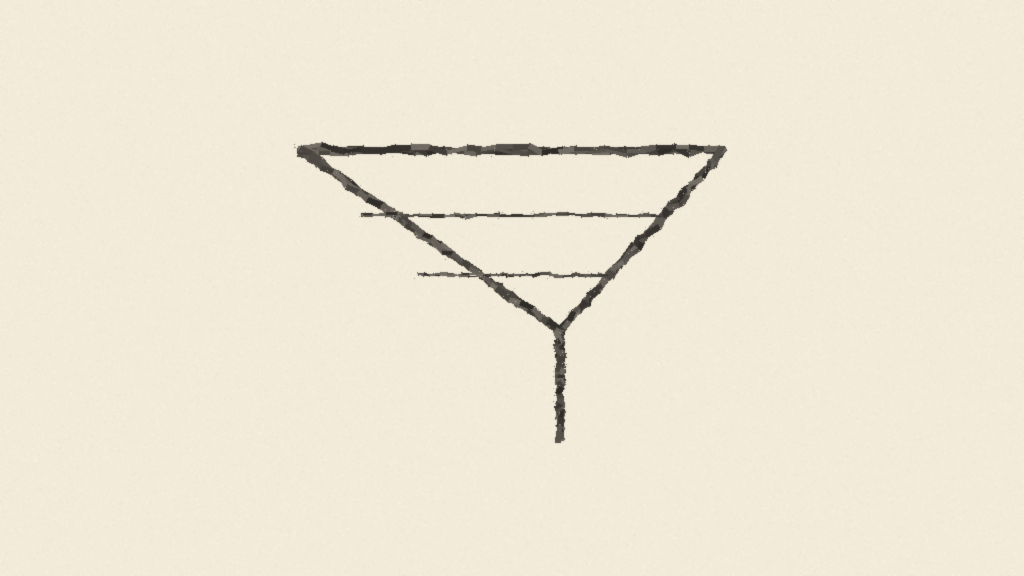
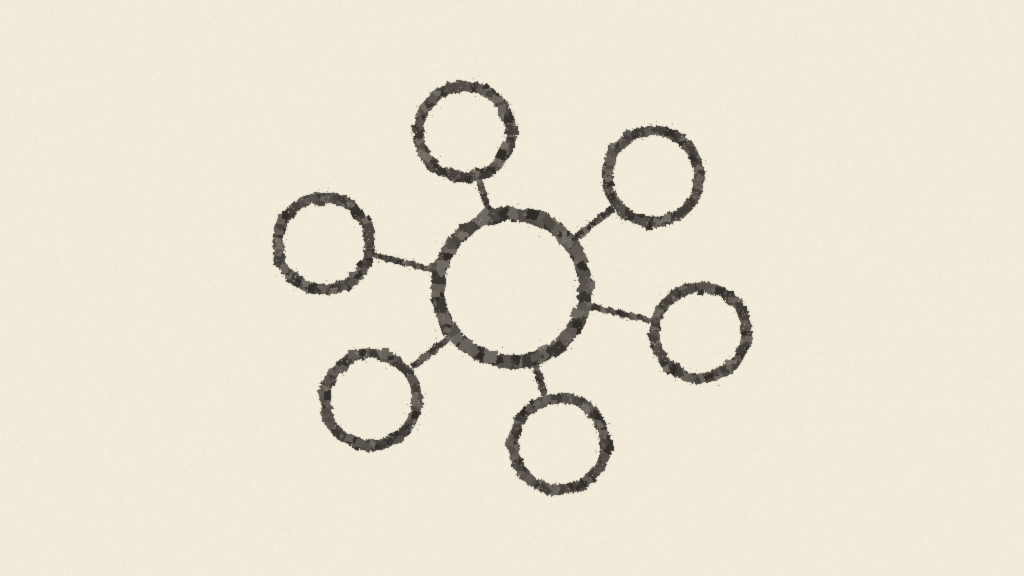
teaser: 모티프 선택을 excerpt·본문 기반으로 개선, SEO 글 썸네일 nodes로 교체
- 키워드 사전 확장 (seo·검색엔진·색인·rss 등 → nodes)
- 영문 키워드 단어 경계 매칭으로 오매칭 방지
- slug·tags·title 가중치 2, excerpt·본문 가중치 1

Changed region(s): [[0.25, 0.125, 0.75, 0.875]]

diff --git a/markdown_generator/make_sketch_teaser.py b/markdown_generator/make_sketch_teaser.py
@@ -28,7 +28,7 @@ def _bootstrap():
 _bootstrap()
 
 import pathlib
-import hashlib, math, random
+import hashlib, math, random, re
 from PIL import Image, ImageDraw, ImageFilter
 
 W, H = 1024, 576
@@ -124,30 +124,38 @@ def m_nodes(dr, rnd):
 
 MOTIFS = {"bars": m_bars, "funnel": m_funnel, "venn": m_venn, "one": m_one, "matrix": m_matrix, "nodes": m_nodes}
 KEYWORDS = {
-    "bars":   ["metric", "지표", "analytics", "measure", "kpi", "lean"],
-    "funnel": ["funnel", "퍼널", "conversion", "전환", "retention"],
-    "venn":   ["integration", "연동", "통합", "crm", "identity"],
-    "one":    ["omtm", "one", "focus", "단 하나", "핵심"],
-    "matrix": ["matrix", "매트릭스", "framework", "단계", "stage"],
-    "nodes":  ["ai", "agent", "에이전트", "llm", "automation", "자동화", "workflow", "워크플로", "network"],
+    "bars":   ["metric", "지표", "analytics", "measure", "kpi", "lean", "ga4", "amplitude", "측정", "대시보드"],
+    "funnel": ["funnel", "퍼널", "conversion", "전환", "retention", "리텐션", "유입", "온보딩"],
+    "venn":   ["integration", "연동", "통합", "crm", "identity", "매핑"],
+    "one":    ["omtm", "focus", "단 하나", "하나만", "원포인트"],
+    "matrix": ["matrix", "매트릭스", "framework", "프레임워크", "단계", "stage", "체크리스트"],
+    "nodes":  ["ai", "agent", "에이전트", "llm", "automation", "자동화", "workflow", "워크플로", "network",
+               "seo", "geo", "검색엔진", "색인", "크롤러", "크롤링", "indexnow", "sitemap", "rss", "피드"],
 }
 
-def pick(slug, tags, title):
-    hay = " ".join([slug, " ".join(tags or []), title or ""]).lower()
+def _hit(k, hay):
+    # 영문 키워드는 단어 경계 매칭 ("ai"가 "airbridge"에 걸리는 오매칭 방지)
+    if re.fullmatch(r"[a-z0-9]+", k):
+        return re.search(r"(?<![a-z0-9])" + re.escape(k) + r"(?![a-z0-9])", hay) is not None
+    return k in hay
+
+def pick(slug, tags, title, text=""):
+    strong = " ".join([slug, " ".join(tags or []), title or ""]).lower()
+    weak = (text or "").lower()
     best, score = None, 0
     for m, kws in KEYWORDS.items():
-        s = sum(1 for k in kws if k in hay)
+        s = sum(2 for k in kws if _hit(k, strong)) + sum(1 for k in kws if _hit(k, weak))
         if s > score: best, score = m, s
     if best: return best
     h = int(hashlib.sha256(slug.encode()).hexdigest(), 16)
     return sorted(MOTIFS)[h % len(MOTIFS)]
 
-def generate(slug, out, tags=None, title="", motif=None):
+def generate(slug, out, tags=None, title="", motif=None, text=""):
     rnd = random.Random(int(hashlib.sha256(slug.encode()).hexdigest()[:12], 16))
     img = paper(rnd)
     layer = Image.new("RGBA", (W, H), (0,0,0,0))
     dr = ImageDraw.Draw(layer)
-    name = motif or pick(slug, tags, title)
+    name = motif or pick(slug, tags, title, text)
     MOTIFS[name](dr, rnd)
     img = Image.alpha_composite(img.convert("RGBA"), layer.filter(ImageFilter.GaussianBlur(0.55))).convert("RGB")
     img.save(out, "PNG", optimize=True)
@@ -160,11 +168,12 @@ if __name__ == "__main__":
     ap.add_argument("--slug", required=True)
     ap.add_argument("--tags", default="")
     ap.add_argument("--title", default="")
+    ap.add_argument("--text", default="", help="excerpt·본문 등 추가 매칭 텍스트 (가중치 1)")
     ap.add_argument("--outdir", default="images")
     ap.add_argument("--motif", choices=sorted(MOTIFS), help="자동 선택 대신 강제 지정")
     a = ap.parse_args()
     out = pathlib.Path(a.outdir) / ("sketch-" + a.slug + ".png")
     out.parent.mkdir(parents=True, exist_ok=True)
     name = generate(a.slug, str(out), tags=[t for t in a.tags.split(",") if t],
-                    title=a.title, motif=a.motif)
+                    title=a.title, motif=a.motif, text=a.text)
     print(str(out) + "\t" + name)

diff --git a/markdown_generator/obsidian_to_article.py b/markdown_generator/obsidian_to_article.py
@@ -236,7 +236,7 @@ def yaml_str(s: str):
     return '"' + s.replace("\\", "\\\\").replace('"', '\\"') + '"'
 
 
-def ensure_sketch_teaser(slug, tags, title):
+def ensure_sketch_teaser(slug, tags, title, text=""):
     """teaser 미지정·본문 이미지 없음 -> 스케치 썸네일을 생성해 파일명을 돌려준다.
 
     실패해도 발행을 막지 않는다 (DEFAULT_TEASER로 폴백)."""
@@ -247,7 +247,8 @@ def ensure_sketch_teaser(slug, tags, title):
     try:
         r = subprocess.run(
             [sys.executable, script, "--slug", slug, "--tags", ",".join(tags or []),
-             "--title", title or "", "--outdir", os.path.join(REPO_ROOT, "images")],
+             "--title", title or "", "--text", (text or "")[:3000],
+             "--outdir", os.path.join(REPO_ROOT, "images")],
             capture_output=True, text=True, timeout=180, cwd=REPO_ROOT)
         if r.returncode != 0:
             print("  ⚠ 스케치 썸네일 생성 실패 -> %s (%s)" % (DEFAULT_TEASER, r.stderr.strip()[:120]))
@@ -334,7 +335,7 @@ def main(argv=None):
         teaser = DEFAULT_TEASER
     else:
         _tags = [t.strip() for t in (args.tags or "").split(",") if t.strip()]
-        teaser = ensure_sketch_teaser(slug, _tags, title)
+        teaser = ensure_sketch_teaser(slug, _tags, title, (excerpt or "") + " " + body)
 
     front_matter = build_front_matter(args, title, date, excerpt, args.collection, slug, teaser)
     article = front_matter + "\n\n" + body
